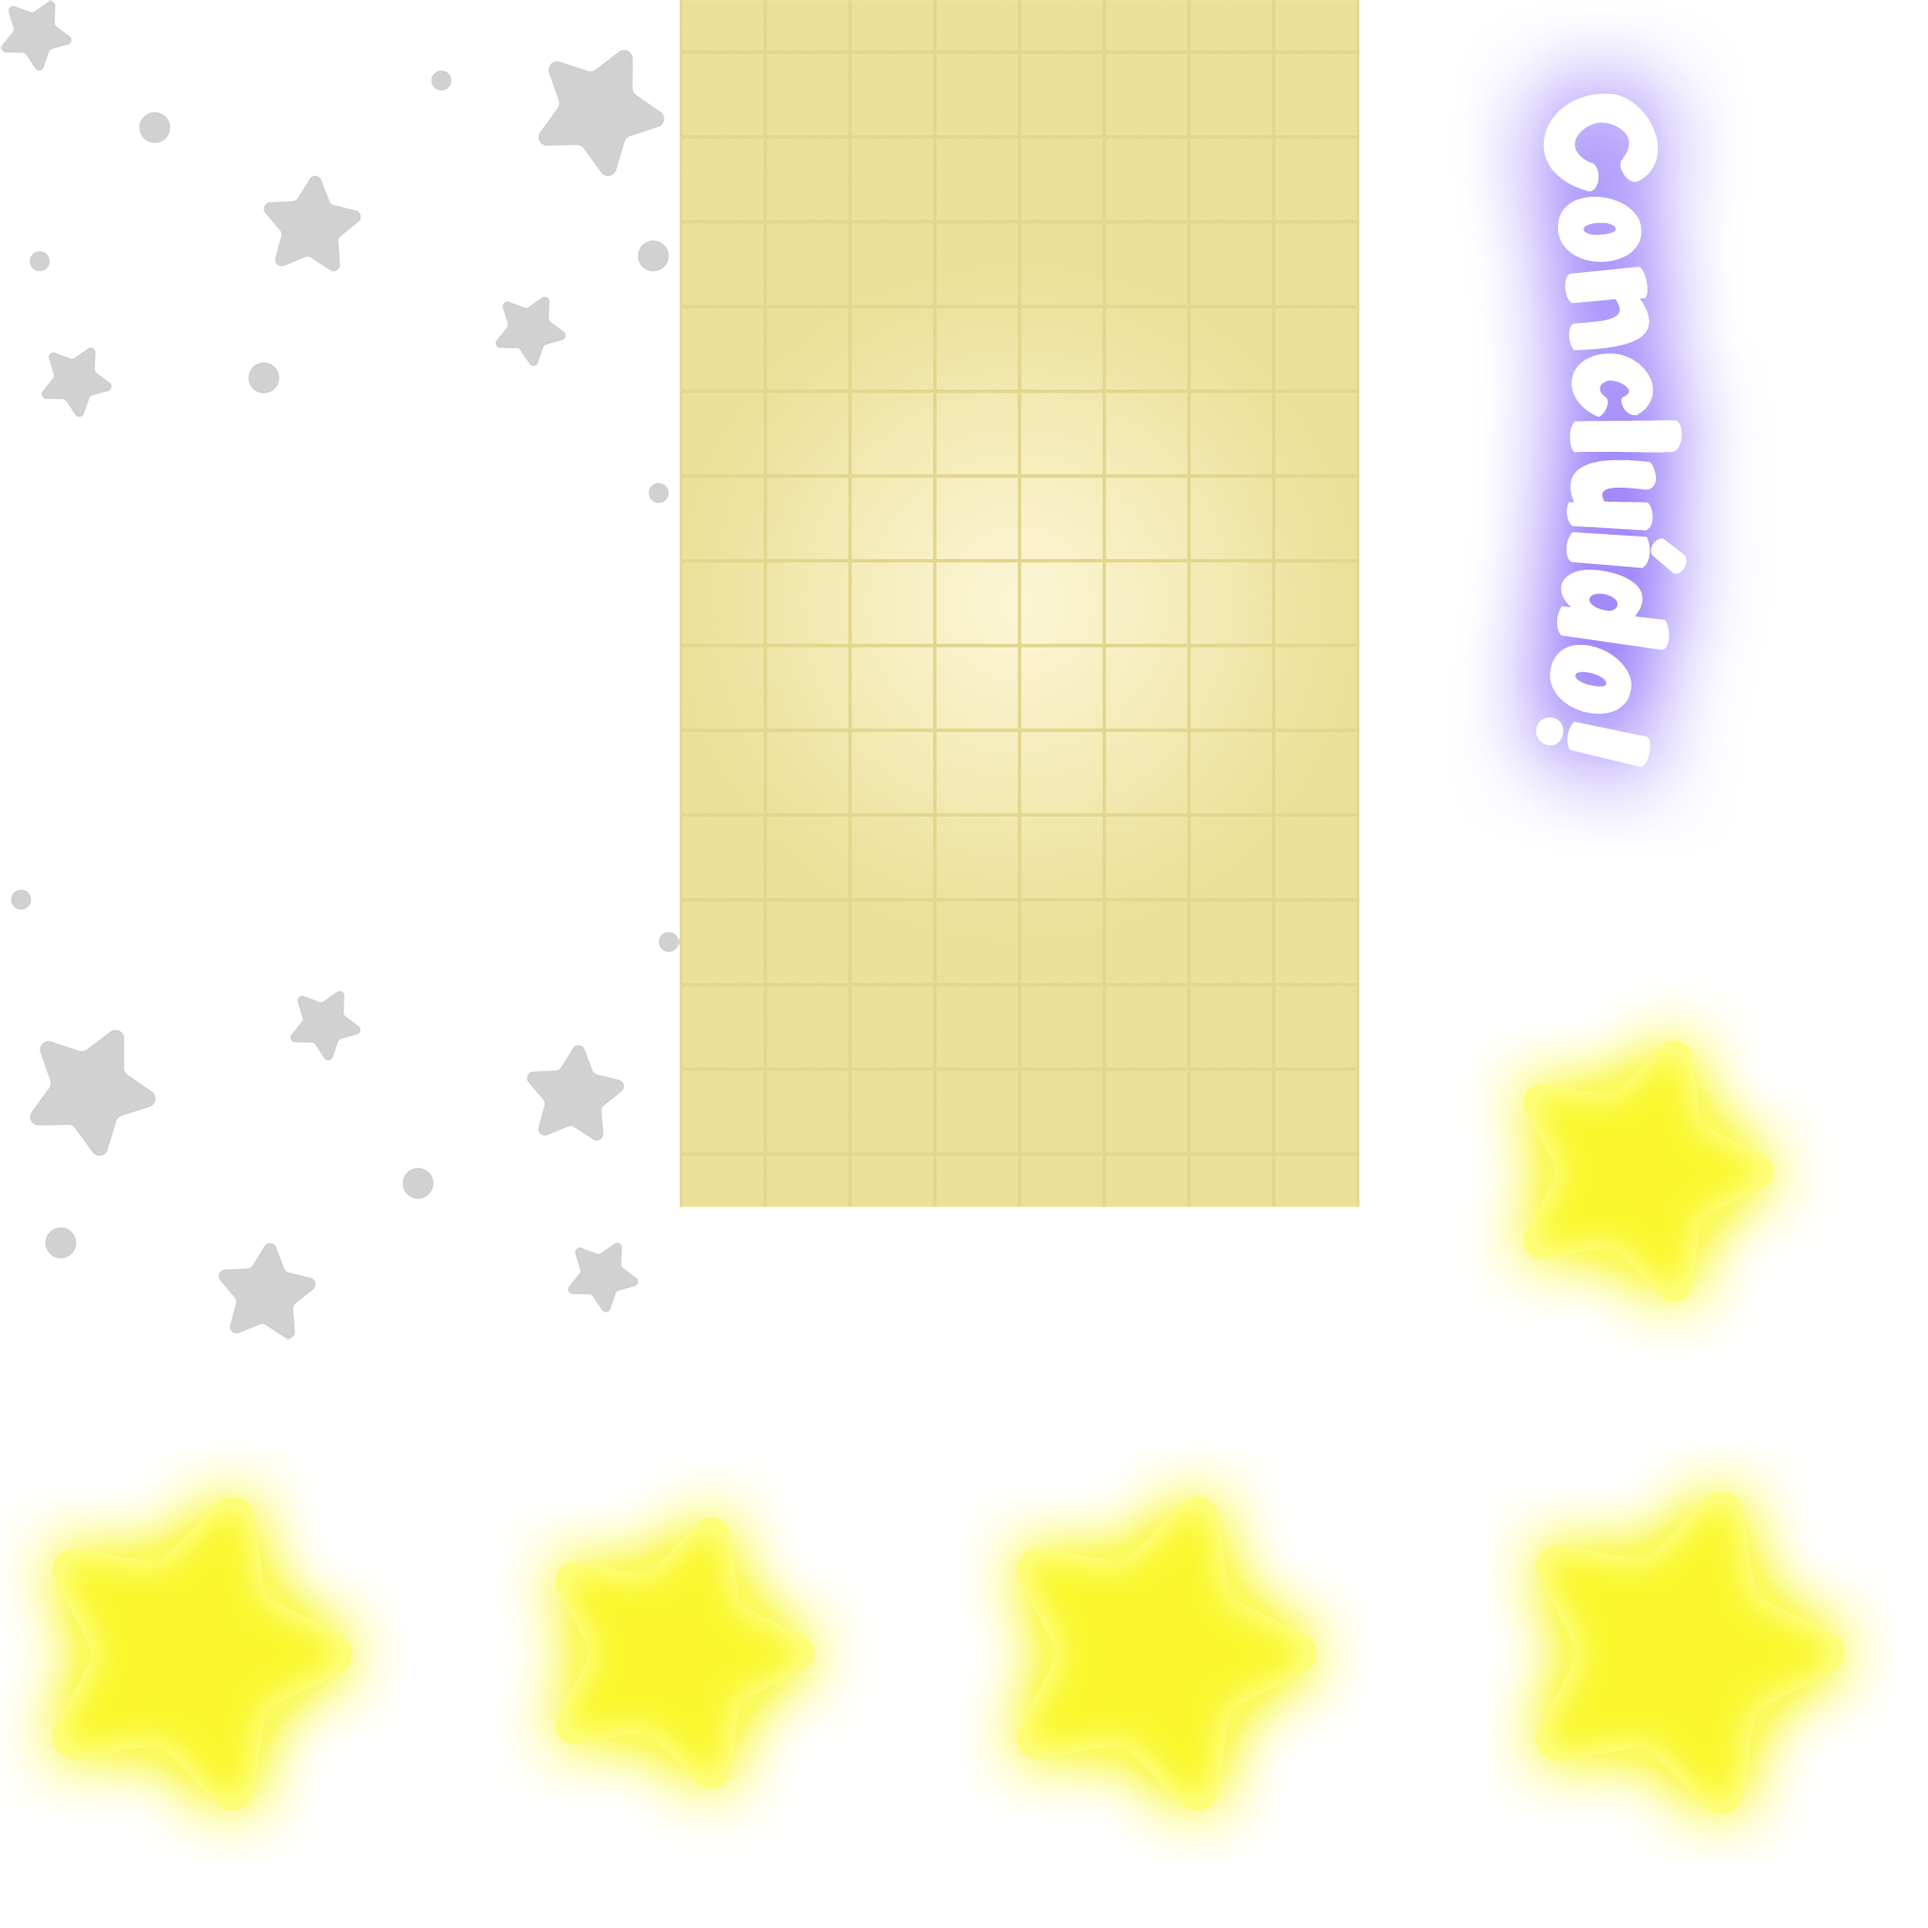
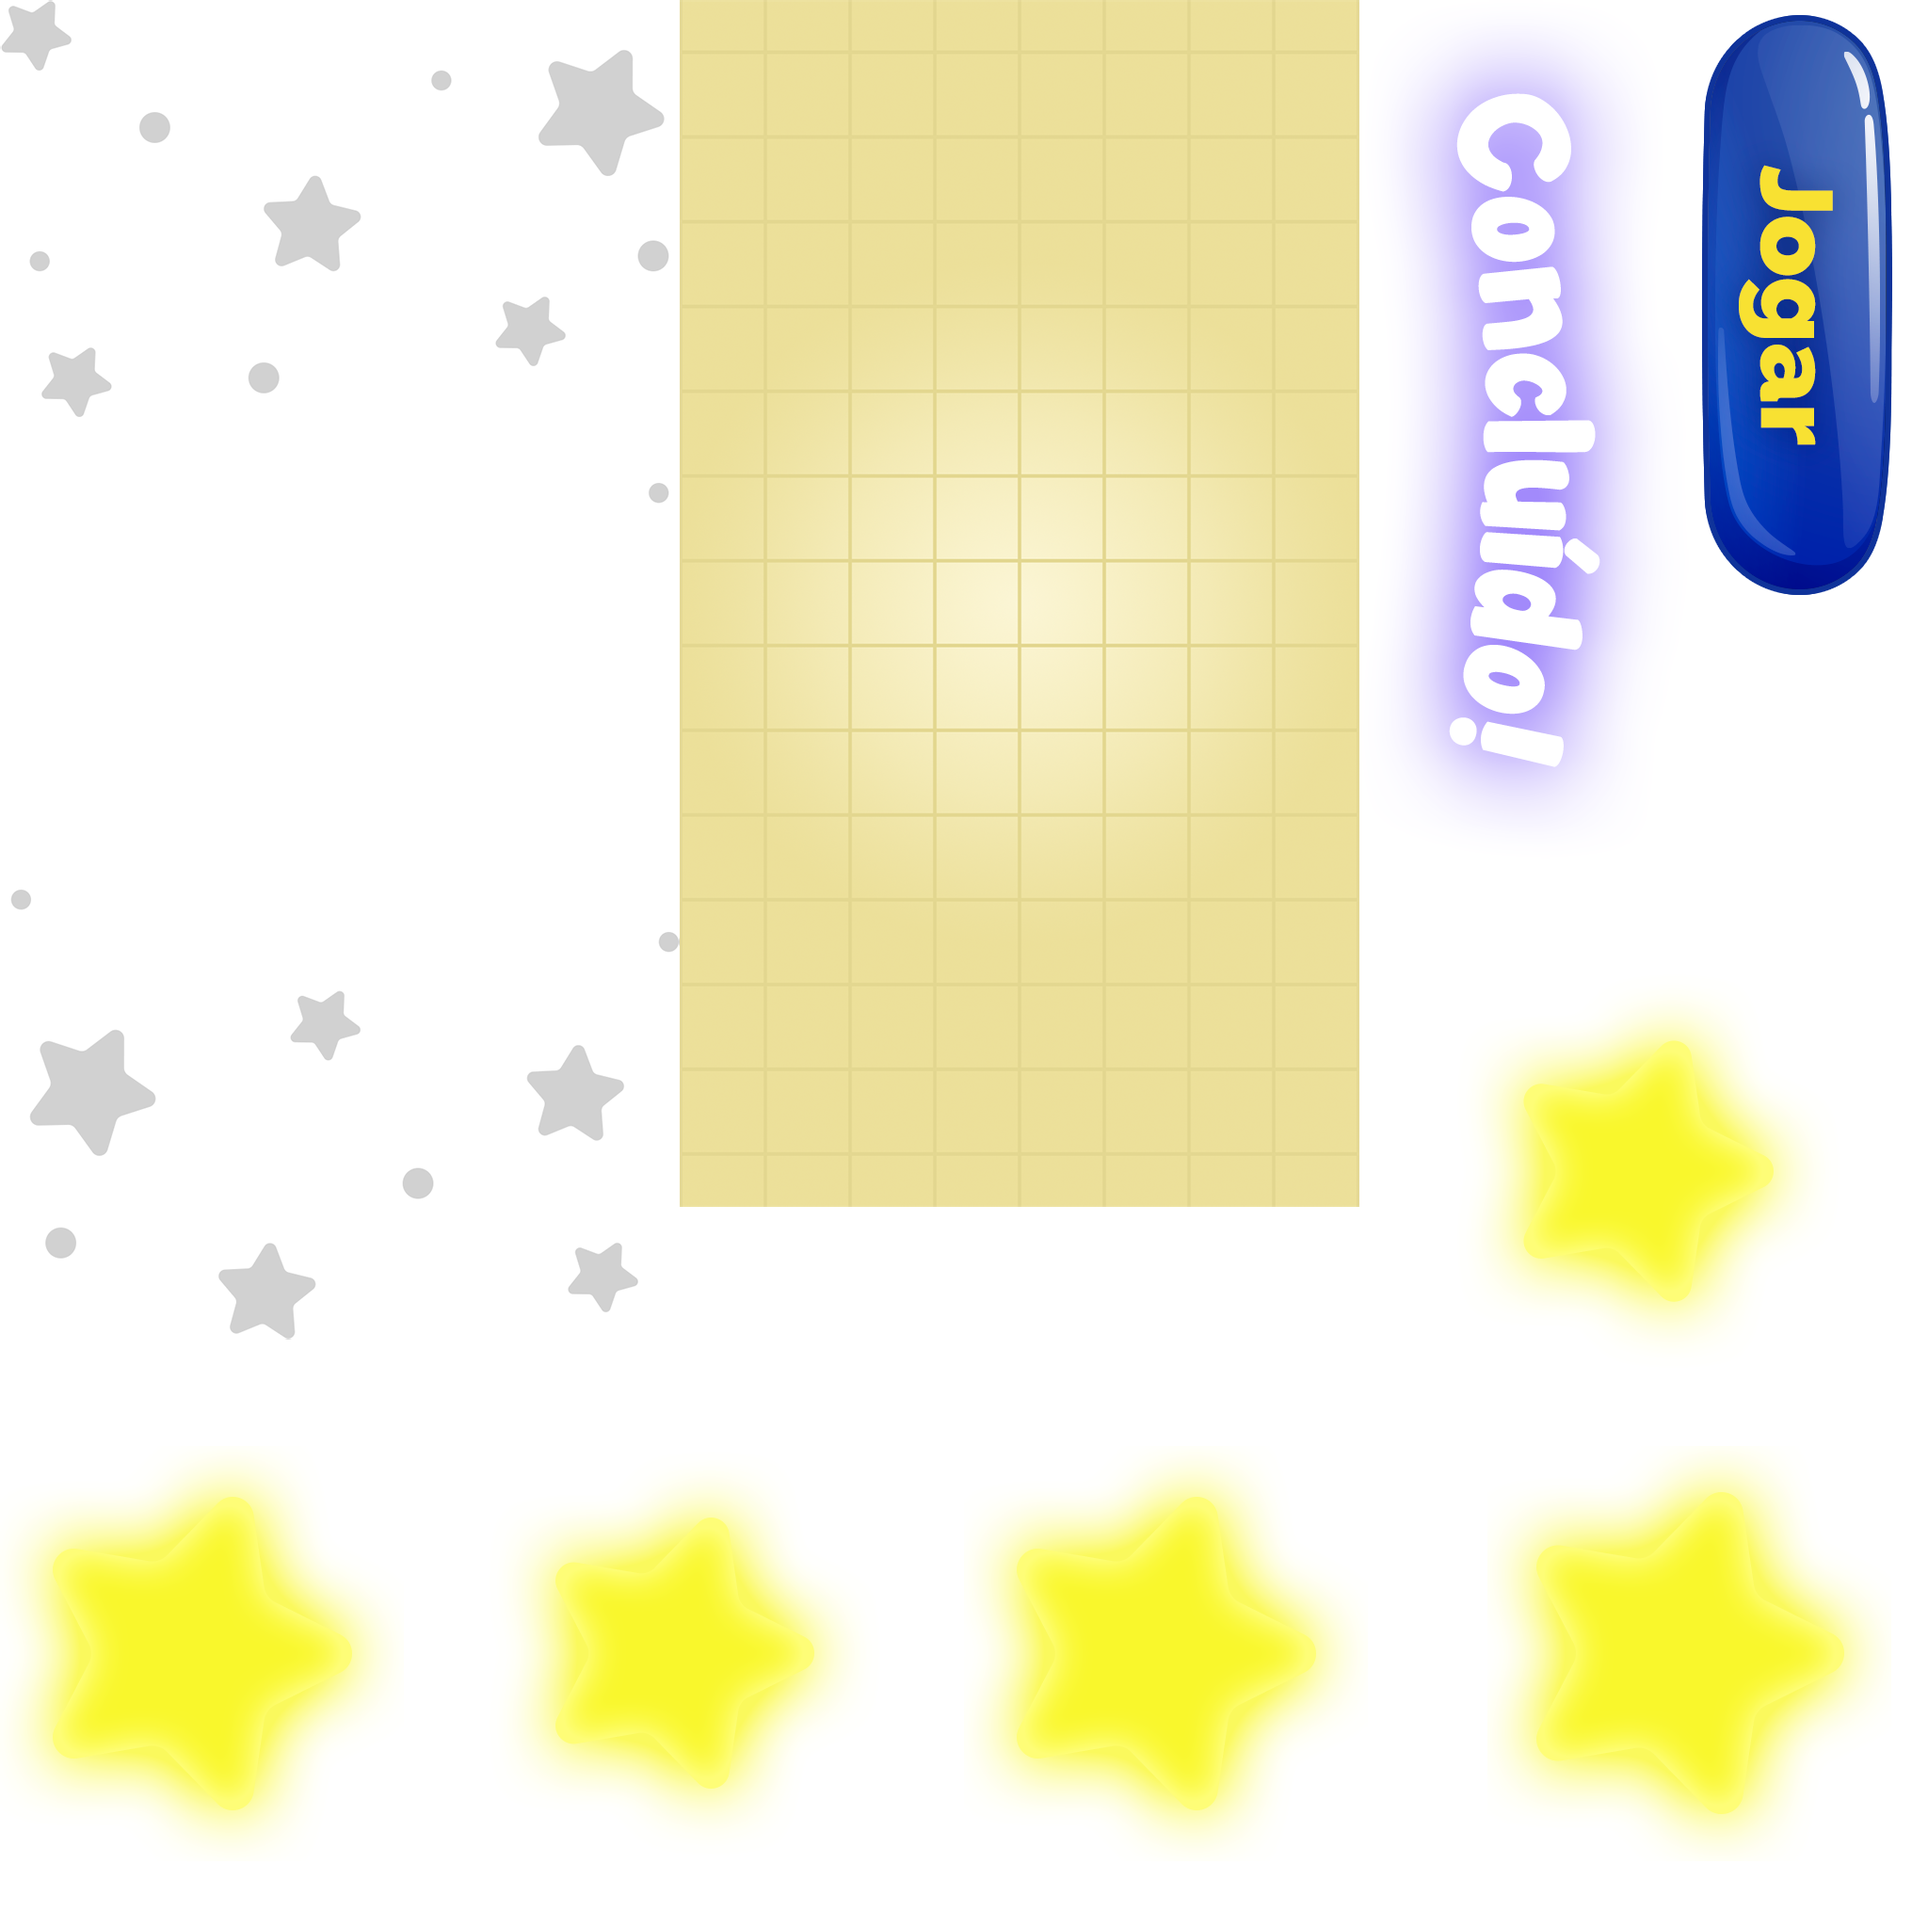
fix button play

Changed region(s): [[0.7188, 0.0, 1.0, 0.4062]]

diff --git a/works/palavras/scripts/c3runtime.js b/works/palavras/scripts/c3runtime.js
@@ -4473,16 +4473,17 @@ self.C3_GetObjectRefTable = function () {
 		C3.Plugins.System.Acts.Wait,
 		C3.Plugins.Browser.Acts.RequestFullScreen,
 		C3.Plugins.Touch.Cnds.OnTapGestureObject,
+		C3.Plugins.Audio.Acts.PlayByName,
 		C3.Plugins.System.Acts.SetVar,
 		C3.Plugins.System.Acts.GoToLayoutByName,
 		C3.Plugins.Sprite.Cnds.CompareInstanceVar,
 		C3.Plugins.System.Cnds.Else,
 		C3.ScriptsInEvents.Menus_Event9_Act2,
 		C3.Plugins.Sprite.Cnds.CompareFrame,
-		C3.Plugins.Keyboard.Cnds.OnKey,
-		C3.Plugins.System.Acts.RestartLayout,
+		C3.Plugins.Sprite.Cnds.IsBoolInstanceVarSet,
+		C3.Plugins.Sprite.Acts.SetBoolInstanceVar,
+		C3.Behaviors.Tween.Acts.TweenTwoProperties,
 		C3.Plugins.Audio.Cnds.IsTagPlaying,
-		C3.Plugins.Audio.Acts.PlayByName,
 		C3.Plugins.System.Cnds.CompareBoolVar,
 		C3.Plugins.System.Cnds.Every,
 		C3.Plugins.System.Acts.AddVar,
@@ -4496,9 +4497,7 @@ self.C3_GetObjectRefTable = function () {
 		C3.Plugins.Text.Exps.Opacity,
 		C3.Plugins.Sprite.Acts.SetAnim,
 		C3.Plugins.System.Cnds.LayerVisible,
-		C3.Plugins.Sprite.Cnds.IsBoolInstanceVarSet,
-		C3.Plugins.Sprite.Acts.SetBoolInstanceVar,
-		C3.Behaviors.Tween.Acts.TweenTwoProperties,
+		C3.Plugins.System.Acts.RestartLayout,
 		C3.Plugins.System.Cnds.CompareVar,
 		C3.Plugins.Sprite.Cnds.OnAnimFinished,
 		C3.Plugins.TiledBg.Acts.SetImageOffsetX,
@@ -4605,6 +4604,7 @@ self.C3_JsPropNameTable = [
 	{g1TimeGame: 0},
 	{g1CardCount: 0},
 	{widthCard: 0},
+	{clickHud: 0},
 	{timeToConverted: 0},
 	{flipSpeed: 0},
 	{pairsPerLevel: 0},
@@ -4720,12 +4720,19 @@ self.C3_ExpressionFuncs = [
 		},
 		() => 0.3,
 		() => 0.05,
+		() => "cardHudNext",
+		() => -5,
 		() => 1,
 		() => "G1Memo",
 		() => "Select Game",
 		() => "SelectGame",
 		() => 0,
-		() => 2,
+		() => "Thanks Layout",
+		() => "demoThanks",
+		() => "cardHudMenu",
+		() => "sizeButton",
+		() => 44,
+		() => 0.1,
 		() => "Game 1",
 		() => "G1Tittle",
 		() => "G2Tittle",
@@ -4733,13 +4740,6 @@ self.C3_ExpressionFuncs = [
 		() => "G4Tittle",
 		() => "G5Tittle",
 		() => "G6Tittle",
-		() => "Debug Card",
-		() => 3,
-		() => 4,
-		() => 5,
-		() => 6,
-		() => 7,
-		() => 8,
 		() => "Music System",
 		() => "melhorAmigo",
 		() => "meuMelhorAmigo",
@@ -4767,14 +4767,11 @@ self.C3_ExpressionFuncs = [
 		},
 		() => "Animation 1",
 		() => "cardHudStar",
-		() => -5,
-		() => "sizeButton",
 		() => 28,
-		() => 0.1,
-		() => "cardHudMenu",
 		() => "cardHudRepeat",
 		() => 100,
-		() => "cardHudNext",
+		() => 2,
+		() => 5,
 		p => {
 			const n0 = p._GetNode(0);
 			const n1 = p._GetNode(1);
@@ -4801,7 +4798,9 @@ self.C3_ExpressionFuncs = [
 			const f1 = p._GetNode(1).GetBoundMethod();
 			return () => f0(f1());
 		},
+		() => 3,
 		() => 110,
+		() => 4,
 		() => 85,
 		p => {
 			const n0 = p._GetNode(0);
